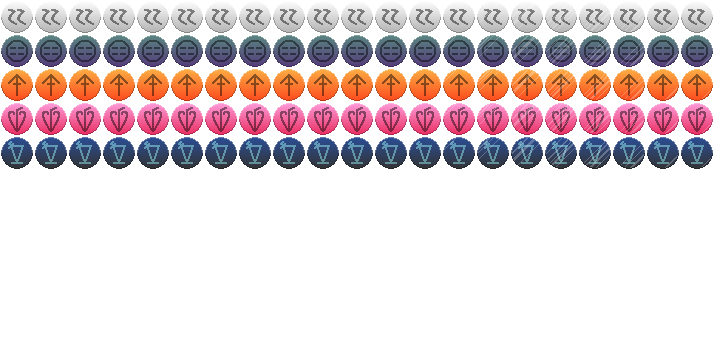
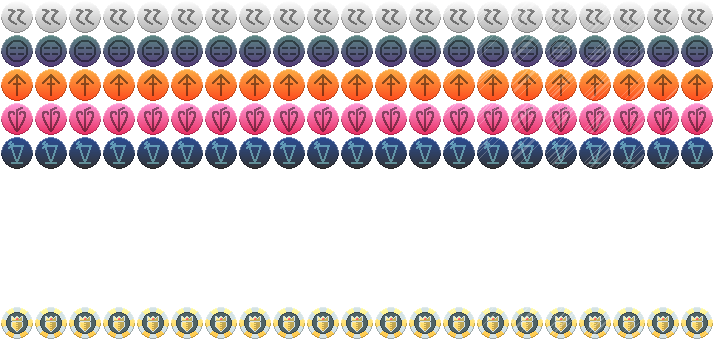
add some stuff i forgot

Changed region(s): [[0.0, 0.8824, 1.0, 1.0]]

diff --git a/README.md b/README.md
@@ -60,6 +60,7 @@ Below is a list of everything this mod adds
 |Cloud| Common | +30 chips for each hand played this round|
 |Brittle Cloud| Common |+150 chips on the first hand played this round|
 |Crystal Heart| Uncommon | If played hand is a single Ace of Hearts, apply a random Edition to a card held in hand |
+|Event Horizon| Uncommon | Every 5th Planet card used acts as a Black Hole |
 |Coyote Jump| Rare |If cards held in hand do not form a Pair, Straight or Flush, gain +1 discard|
 |Red Booster| Rare |Allows you to choose 1 extra card from all Booster Packs|
 |Theo Crystal| Rare |Forces 1 card to always be selected; Adds +1  to all listed probabilities at round end (2 in 7 -> 3 in 7)|
